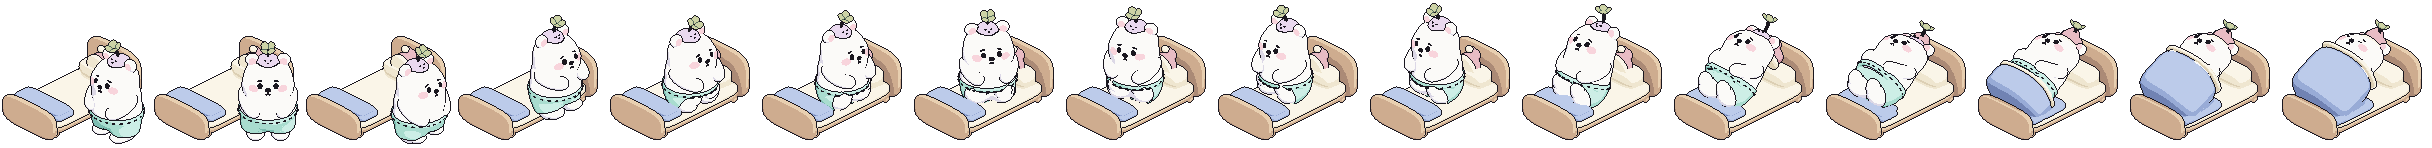
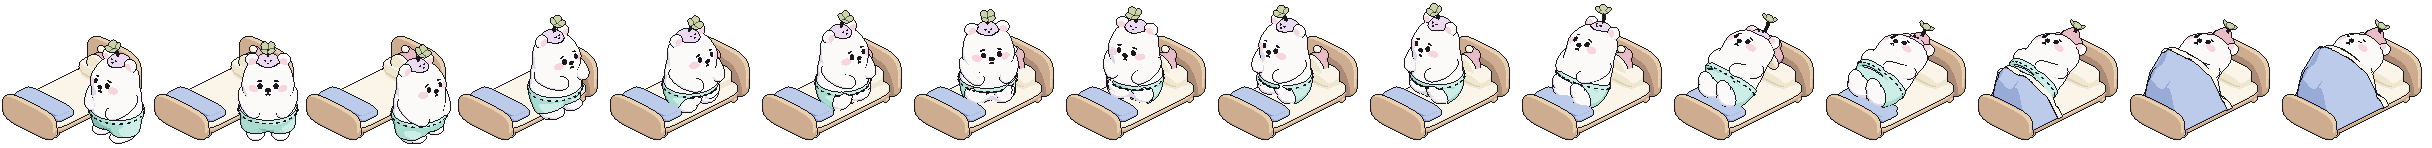
Nightcap bed: the pulled-up quilt drapes over the lying bear, with a turned-down hem
The quilt is rebuilt every frame from the posed bear: it rests on the tummy, arms and feet,
tents between them and hangs over the mattress sides. verify_out.py passes.

Changed region(s): [[0.8125, 0.2973, 1.0, 0.8649], [0.9375, 0.8108, 0.9688, 0.8649], [0.875, 0.8108, 0.9062, 0.8649]]

diff --git a/experiments/mascot/bear3d/set_out.py b/experiments/mascot/bear3d/set_out.py
@@ -25,9 +25,13 @@ key hashed from the placed matrices, so the kit's render cache keys on what is d
   ['head', t, rx, ry, rz]           the same on the head bone (the nightcap)
   ['at', x, y, z, rx, ry, rz, s]    a set-frame placement, uniform scale s (0 = hidden: scale 1e-6)
   ['box', x, y, z, sx, sy, sz]      a set-frame placement with a per-axis scale (the quilt halves)
-  ['mound', h]                      the pulled-up quilt over the lying bear: a soft mound in the posed body bone's
-                                    frame (bear rest axes) from below the seat up to height h (the chest), with a
-                                    cream hem along its top edge; h = 0 hides it
+  ['hide']                          not drawn (the folded quilt halves while the quilt is pulled up)
+  ['drape', h, out]                 the pulled-up quilt laid over the lying bear: a cloth surface rebuilt every
+                                    frame from the POSED bear (_drape: it rests on the tummy, arms and feet, tents
+                                    between them and hangs over the mattress sides), covering the bear up to height
+                                    h along the posed body bone (0 = the seat, 1.2 = the chest), with a cream
+                                    turned-down hem along that edge; h = 0 hides it; out = 1: the arms are out,
+                                    over the quilt
 Derived rigids (drops, dust, the fishing line) are placed from their host's matrix (spout tip, broom head, rod tip).
 Out of Blender the key is a hash of st. verify_out.py proves the reliance: the kit's hand-off check (props + idle#0),
 exact joins and seams, and a self-test mutation that moves a prop on a hand-off frame.
@@ -97,7 +101,9 @@ for _i, (_n, _r, _x, _mg, _th, _extra) in enumerate([
         ('mattress', 'fabric_cream', (2, 3, 4), 'cream', (0.46, 0.70), {}),
         ('quilt', 'fabric_quilt', (1, 2, 3), 'quilt', (0.46, 0.70), {}),
         ('cap', 'fabric_rose', (1, 2, 3), 'rose', (0.44, 0.70), {}),
-        ('cap_trim', 'fabric_cream', (2, 3, 4), 'cream', (0.46, 0.70), {})]):
+        ('cap_trim', 'fabric_cream', (2, 3, 4), 'cream', (0.46, 0.70), {}),
+        ('quilt_hem', 'fabric_cream', (2, 3, 4), 'cream', (0.46, 0.70), {}),
+        ('quilt_lip', 'fabric_cream', (2, 3, 4), 'sheet', (0.46, 0.70), dict(thin=0.30, prio=5))]):
     PARTS[_n] = dict(pid=50 + _i, ramp=_r, idx=_x, mg=_mg, thresh=_th, **_extra)
 
 # layers (= props) per set; the static ones (pot, ice, bed frame) never move (verify_out.py checks it)
@@ -385,35 +391,45 @@ LEG_LIE = 26.0                      # lying: the legs (swung 26 deg against the 
 ARM_LIE, SP_LIE = -6.0, 0.0         # lying: the arms
 Q_HOME = {'quilt_a': ['box', 1.02, 0.0, Z_M + 0.16, 0.28, BW - 0.02, 0.05],
           'quilt_b': ['box', 1.02, 0.0, Z_M + 0.07, 0.33, BW + 0.04, 0.08]}
-Q_UP = {'quilt_a': ['box', 0.66, 0.0, Z_M - 0.02, 0.72, BW + 0.04, 0.08],      # spread flat over the bed, sides draped
-        'quilt_b': ['box', 1.18, 0.0, Z_M + 0.02, 0.20, BW + 0.05, 0.11]}      # a thicker roll at the foot end
-# the mound (body-bone frame, bear rest axes: up +Z from the seat, forward -Y): it encloses everything of the lying
-# bear below h - 0.10 (legs, pants, tummy, arms), so the depth composite hides the covered part; the hem covers the rest
-QMOUND = dict(z0=-0.20, yc=0.0, rx=0.84, ry=0.72, e1=0.4, e2=0.8)
-MOUND_H = (0.30, 1.20)               # the top edge travels from the seat up to across the chest
-HEM = dict(dr=-0.03, dz=0.06)                    # a rolled edge, just inside the mound's rim
+Q_UP = {'quilt_a': ['box', 0.66, 0.0, Z_M - 0.02, 0.72, BW + 0.04, 0.08],      # where the folded halves head as the
+        'quilt_b': ['box', 1.18, 0.0, Z_M + 0.02, 0.20, BW + 0.05, 0.11]}      # bear takes hold (they loosen a little)
+Q_PULL = 0.2                         # from here on the folded halves are gone and the quilt is the drape
+DRAPE_H = (0.30, 1.20)               # its turned-down edge travels from the seat up to across the chest
+# the drape (bed frame, see _drape): a height field over the foot part of the bed. cell = grid step; gap = how far
+# it lies off the bear, all round (>= the bear's 1 px outline; gap_min: never less); thick = its thickness on the bare
+# mattress; soft = the radius of the ball that cannot get under it (it tents between the bumps and meets the mattress
+# in a fillet of that radius; a plain slope limit instead makes it a pitched tent); puff = blur passes that take the
+# creases out of it; over / skirt = it hangs `over` past the mattress side, down to z = skirt; round = the radius of
+# that edge; voxel / relax = the even remesh of the cloth (face size, smoothing passes); hem = the width of the cream
+# turned-down band, lift = how far it lies above the quilt, lip = the sheet edge showing beyond it where it lies on
+# the bear (within lip_r of the bear; the pixel step inks the lip along the band: the line between the hem and the
+# bear)
+DRAPE = dict(x0=-0.62, cell=0.0125, gap=0.06, gap_min=0.04, thick=0.05, soft=0.26, over=0.06, skirt=0.30,
+             puff=50, round=0.05, voxel=0.02, relax=3, hem=0.13, lift=0.02, lip=0.04, lip_r=0.10)
 CAP_HOME = (-(BL - 0.36), 0.0, Z_M + 0.52)   # the nightcap lying on the pillow (bed frame: head end at -X)
 
 
-def _quilt(t, br=0.0):
-    """t: 0 = folded at the foot (home), 1 = pulled up to the chest. The mound only shows from t 0.2 (only on
-    frames where the bear lies flat with its legs at LEG_LIE), rising from the seat to the chest."""
-    out = {}
+def _quilt(t, br=0.0, out=0):
+    """t: 0 = folded at the foot (home), 1 = pulled up to the chest. Below Q_PULL the folded halves only loosen;
+    from Q_PULL on (only on frames where the bear lies flat) they are hidden and the quilt is the drape laid over
+    the bear, its edge rising from the seat to the chest (out = 1: the arms come out over it)."""
+    res = {}
     for k in ('quilt_a', 'quilt_b'):
+        if t >= Q_PULL: res[k] = ['hide']; continue
         a, b = Q_HOME[k], Q_UP[k]; e = _ease(min(1.0, t / 0.6))
         v = [round(a[i] + (b[i] - a[i]) * e, 4) for i in range(1, 7)]
         v[5] = round(v[5] * (1 + br), 4)
-        out[k] = ['box'] + v
-    h = 0.0 if t < 0.2 else MOUND_H[0] + (MOUND_H[1] - MOUND_H[0]) * _ease((t - 0.2) / 0.8)
-    out['quilt_m'] = ['mound', round(h, 4)]
-    return out
+        res[k] = ['box'] + v
+    h = 0.0 if t < Q_PULL else DRAPE_H[0] + (DRAPE_H[1] - DRAPE_H[0]) * _ease((t - Q_PULL) / (1 - Q_PULL))
+    res['quilt_m'] = ['drape', round(h, 4), int(out)]
+    return res
 
 
 def _b_bed_cap(g):
     PXZ = g['PXZ']; hx, hy = g['hand']
     edgeY = -BW + 0.30
-    def S(cap=HOME, quilt=0.0, br=0.0, nod=0.0):
-        st = dict(_quilt(quilt, br)); st['nightcap'] = cap if cap is HOME else ['head', cap, 0.0, round(nod, 3), 0.0]
+    def S(cap=HOME, quilt=0.0, br=0.0, nod=0.0, out=0):
+        st = dict(_quilt(quilt, br, out)); st['nightcap'] = cap if cap is HOME else ['head', cap, 0.0, round(nod, 3), 0.0]
         if cap is not HOME and cap < 1.0: st['nightcap'] = ['head', cap, 0.0, 0.0, 0.0]
         return st
     lerp = lambda a, b, t: a + (b - a) * t
@@ -462,7 +478,7 @@ def _b_bed_cap(g):
     wake = [
         L0,
         _F(g, S(1.0, 1.0), LY, blink=1.0, earL=2, earR=2),                                       # eyes open
-        _F(g, S(1.0, 1.0), LY, blink=1.0, armL=30.0, armR=30.0, spL=0.0, spR=0.0, sz=1.03, mouth='wide', earL=4,
+        _F(g, S(1.0, 1.0, out=1), LY, blink=1.0, armL=30.0, armR=30.0, spL=0.0, spR=0.0, sz=1.03, mouth='wide', earL=4,
            earR=4),                                                                              # stretch, yawn
         _F(g, S(1.0, 0.5), LY, blink=1.0, clX=4, earL=2, earR=2),                                 # push the quilt down
         _F(g, S(0.6, 0.1), tl(0.55, armL=18.0, armR=18.0, clX=6)),                                # sit up, the cap hops off
@@ -576,10 +592,15 @@ def build_props(s, kit, g):
         for k in ('quilt_a', 'quilt_b'):
             e = E(k, 'bed', None, 'box_bed')
             _part(kit, k, e, 'bed', 'quilt', [((0, 0, 0), (1.0, 1.0, 1.0), 0.45, 0.30)])
-        e = E('quilt_m', 'bed', None, 'mound')                    # unit shapes, scaled per frame by _apply
-        _part(kit, 'quilt_m', e, 'bed', 'quilt', [((0, 0, 0), (1.0, 1.0, 1.0), QMOUND['e1'], QMOUND['e2'])])
-        hm = kit.empty('P_quilt_hem', (0, 0, 0), W0); rig['quilt_m']['hem'] = hm
-        _part(kit, 'quilt_hem', hm, 'bed', 'mattress', [((0, 0, 0), (1.0, 1.0, 1.0), 0.5, 0.7)])
+        e = E('quilt_m', 'bed', None, 'drape')                    # empty meshes, rebuilt per frame by _drape
+        for k, part in (('mesh', 'quilt'), ('hem', 'quilt_hem'), ('lip', 'quilt_lip')):
+            ob = _part(kit, 'quilt_' + k, e, 'bed', part, [((0, 0, 0), (1.0, 1.0, 1.0), 1.0, 1.0, dict(segs=4, rings=3))])
+            ob.data.clear_geometry(); rig['quilt_m'][k] = ob
+        import bpy
+        src = bpy.data.objects.new('quilt_src', bpy.data.meshes.new('quilt_src'))    # the cloth before remeshing:
+        bpy.context.scene.collection.objects.link(src); src.hide_render = True       # never rendered, no layer
+        md = src.modifiers.new('even', 'REMESH'); md.mode = 'VOXEL'; md.voxel_size = DRAPE['voxel']; md.adaptivity = 0.0
+        rig['quilt_m'].update(src=src, sig=[0.0])
         cap = E('nightcap', 'cap', None, 'head')
         hz = 1.4
         _part(kit, 'cap', cap, 'cap', 'cap', [((0, 0.12, 2.15 - hz), (0.31, 0.30, 0.19), 0.8, 1.0),
@@ -665,24 +686,19 @@ def _apply(st):
                 m = Matrix.Translation(a) @ q.to_matrix().to_4x4() @ Matrix.Diagonal((1, 1, max(d.length, 1e-3), 1))
             else: m = _mat_at(0, 0, -1, s=0.0)
         elif r['kind'] == 'box_bed':                               # a quilt half: set-frame box
-            _, x, y, z, sx, sy, sz = sp
-            m = Matrix.Translation((x, y, z)) @ Matrix.Diagonal((sx, sy, sz, 1.0))
-            m = _bed() @ m
-        elif r['kind'] == 'mound':                                 # the pulled-up quilt over the lying bear
-            h = sp[1] if sp[0] == 'mound' else 0.0
-            if h <= 0:
-                m = _mat_at(0, 0, -1, s=0.0); r['hem'].matrix_basis = m.copy()
+            if sp[0] == 'hide': m = _mat_at(0, 0, -1, s=0.0)
             else:
-                Q = QMOUND; F = _follow('body', 'body', (0.0, 0.0, 0.0))
-                m = F @ Matrix.Translation((0, Q['yc'], (Q['z0'] + h) / 2)) @ Matrix.Diagonal(
-                    (Q['rx'], Q['ry'], (h - Q['z0']) / 2, 1.0))
-                r['hem'].matrix_basis = F @ Matrix.Translation((0, Q['yc'], h)) @ Matrix.Diagonal(
-                    (Q['rx'] + HEM['dr'], Q['ry'] + HEM['dr'], HEM['dz'], 1.0))
+                _, x, y, z, sx, sy, sz = sp
+                m = _bed() @ Matrix.Translation((x, y, z)) @ Matrix.Diagonal((sx, sy, sz, 1.0))
+        elif r['kind'] == 'drape':                                 # the pulled-up quilt laid over the lying bear
+            m = Matrix.Identity(4)
+            r['sig'] = _drape(r, sp[1], bool(sp[2])) if sp[0] == 'drape' else _drape(r, 0.0)
         elif r['kind'] == 'head':                                  # the nightcap: pillow -> head
             home = _bed() @ _mat_at(*CAP_HOME, 0.0, -80.0, 0.0) @ Matrix.Translation((-0.10, -0.14, -0.78))
             if sp[0] == 'home': m = home
             else:
                 m = _blend(home, _follow('head', 'head', sp[2:5]), sp[1])
+        elif sp[0] == 'hide': m = _mat_at(0, 0, -1, s=0.0)
         elif sp[0] == 'home': m = _home(r)
         elif sp[0] == 'paw': m = _blend(_home(r), _follow('paw_L', 'paw_R', sp[2:5]) @ _grip(n), sp[1])
         elif sp[0] == 'at':
@@ -697,9 +713,120 @@ def _apply(st):
     for l in LAYERS[_R['set']]:
         sig = [round(x, 5) for n in sorted(rig) if rig[n]['layer'] == l for row in M[n] for x in row]
         if 'shead' in rig and l == 'snow': sig += [round(x, 5) for row in rig['shead']['nose'].matrix_basis for x in row]
-        if 'quilt_m' in rig and l == 'bed': sig += [round(x, 5) for row in rig['quilt_m']['hem'].matrix_basis for x in row]
+        if 'quilt_m' in rig and l == 'bed': sig += rig['quilt_m']['sig']
         keys[l] = f'{l}_' + hashlib.md5(json.dumps(sig).encode()).hexdigest()[:10]
     return keys
+
+
+def _drape(r, h, arms_out=False):
+    """rebuild the pulled-up quilt for this frame (the rig is already posed) and return its render signature.
+    The cloth is a height field z(x, y) in the set frame over the foot part of the bed: it lies `gap` off
+    everything of the bear below the edge plane (the plane across the posed body bone at height h), falls from
+    there like cloth (a ball of radius `soft` cannot get under it), lies `thick` on the bare mattress and hangs over
+    the mattress sides and foot.
+    arms_out: the arms are not covered (they come out over the quilt: the stretch). Cut by the edge plane it gives
+    three meshes: the quilt, the cream hem band along the cut (lifted off the quilt)
+    and the sheet lip just beyond it. Because the cloth covers the bear from above with room to spare, the depth
+    composite hides every covered bear pixel, in any pose."""
+    import bpy, bmesh
+    import numpy as np
+    from mathutils import Vector
+    from mathutils.bvhtree import BVHTree
+    obs = [r['mesh'], r['hem'], r['lip']]
+    for ob in obs: ob.data.clear_geometry()
+    if h <= 0: return [0.0]
+    D = DRAPE; cs = D['cell']
+    F = _follow('body', 'body', (0.0, 0.0, 0.0))
+    n = Vector(F.col[2][:3]).normalized(); c = F @ Vector((0.0, 0.0, h))
+    Wi = np.array(_R['W0'].matrix_world.inverted()); dg = bpy.context.evaluated_depsgraph_get()
+    vs, ts, nv = [], [], 0
+    for o in bpy.data.collections['Bear'].all_objects:                 # the posed bear, in the set frame
+        if o.type != 'MESH' or (arms_out and o.name.startswith('arm_')): continue
+        oe = o.evaluated_get(dg); me = oe.to_mesh(); me.calc_loop_triangles()
+        co = np.empty(len(me.vertices) * 3, np.float32); me.vertices.foreach_get('co', co)
+        tr = np.empty(len(me.loop_triangles) * 3, np.int32); me.loop_triangles.foreach_get('vertices', tr)
+        oe.to_mesh_clear()
+        M = Wi @ np.array(o.matrix_world)
+        vs.append(co.reshape(-1, 3).astype(np.float64) @ M[:3, :3].T + M[:3, 3]); ts.append(tr.reshape(-1, 3) + nv)
+        nv += len(vs[-1])
+    tree = BVHTree.FromPolygons(np.concatenate(vs).tolist(), np.concatenate(ts).tolist(), all_triangles=True)
+    yw = BW + D['over']; x0 = D['x0']; x1 = BL
+    nx = int(round((x1 - x0) / cs)); ny = int(round(2 * yw / cs))
+    gx = x0 + cs * np.arange(nx + 1); gy = -yw + cs * np.arange(ny + 1)
+    # T: per grid point the top of what the quilt covers there = the bear's column below the edge plane
+    T = np.full((nx + 1, ny + 1), -1e9); under = np.zeros(T.shape, bool); up, dn = Vector((0.0, 0.0, 1.0)), Vector((0.0, 0.0, -1.0))
+    for i in range(nx + 1):
+        zp = c.z - (gx[i] - c.x) * n.x / n.z                         # the edge plane's height over this row
+        for j in range(ny + 1):
+            top = tree.ray_cast(Vector((gx[i], gy[j], 9.0)), dn)[0]
+            if top is None: continue
+            under[i, j] = True
+            bot = tree.ray_cast(Vector((gx[i], gy[j], -9.0)), up)[0]
+            if bot.z <= zp: T[i, j] = min(top.z, zp)
+
+    def ball(rad):                                                   # grid offsets within rad + the ball's height there
+        m = int(rad / cs)
+        return [(u, v, math.sqrt(max(rad * rad - (u * u + v * v) * cs * cs, 0.0)))
+                for u in range(-m, m + 1) for v in range(-m, m + 1) if (u * u + v * v) * cs * cs <= rad * rad]
+    def roll_on(a, rad, sg):                                         # sg +1: a ball rolled over a (grow), -1: under it
+        p = np.pad(a, int(rad / cs), constant_values=-sg * 1e9); m = int(rad / cs)
+        st = [p[m + u:m + u + a.shape[0], m + v:m + v + a.shape[1]] + sg * hgt for u, v, hgt in ball(rad)]
+        return np.maximum.reduce(st) if sg > 0 else np.minimum.reduce(st)
+    floor = Z_M + D['thick']
+    low = np.maximum(roll_on(T, D['gap_min'], 1), floor)             # never below this: the bear + gap_min all round
+    Z = np.maximum(roll_on(T, D['gap'], 1), floor)                   # the bear + gap all round, on the mattress
+    Z = roll_on(roll_on(Z, D['soft'], 1), D['soft'], -1)             # cloth: a ball of radius soft cannot get under it
+    for k in range(D['puff']):                                       # padded cloth: no sharp creases between the bumps
+        p = np.pad(Z, 1, mode='edge')                                # (each pass is a 3x3 binomial blur)
+        Z = (4 * Z + 2 * (p[2:, 1:-1] + p[:-2, 1:-1] + p[1:-1, 2:] + p[1:-1, :-2]) +
+             p[2:, 2:] + p[2:, :-2] + p[:-2, 2:] + p[:-2, :-2]) / 16.0
+    Z = np.maximum(Z, low)
+    rc = D['round']                                                  # round the edges it hangs from
+    def roll(d): t = np.clip(rc - d, 0.0, rc); return rc - np.sqrt(rc * rc - t * t)
+    Z = np.maximum(Z - roll(yw - np.abs(gy))[None, :] - roll(x1 - gx)[:, None], np.where(T > -1e8, low, Z_M))
+
+    # the cloth as a closed solid: the height field, walls straight down to z = skirt all round, a flat bottom.
+    # A height field cannot hold its steep sides evenly (they would shade in streaks), so the solid is remeshed
+    # into even voxel-size faces and relaxed; the cuts below open it again.
+    eps = 0.004; I = np.arange(-1, nx + 2); J = np.arange(-1, ny + 2)
+    X = gx[np.clip(I, 0, nx)] + eps * ((I > nx) * 1.0 - (I < 0) * 1.0)
+    Y = gy[np.clip(J, 0, ny)] + eps * ((J > ny) * 1.0 - (J < 0) * 1.0)
+    ZZ = np.full((nx + 3, ny + 3), D['skirt']); ZZ[1:nx + 2, 1:ny + 2] = Z
+    V = np.stack([np.repeat(X[:, None], ny + 3, 1), np.repeat(Y[None, :], nx + 3, 0), ZZ], -1).reshape(-1, 3)
+    vid = np.arange((nx + 3) * (ny + 3)).reshape(nx + 3, ny + 3)
+    Fq = np.stack([vid[:-1, :-1], vid[1:, :-1], vid[1:, 1:], vid[:-1, 1:]], -1).reshape(-1, 4)
+    src = r['src']; me = src.data; me.clear_geometry(); me.from_pydata(V.tolist(), [], Fq.tolist())
+    bm = bmesh.new(); bm.from_mesh(me)
+    bmesh.ops.holes_fill(bm, edges=[e for e in bm.edges if e.is_boundary], sides=0)
+    bm.to_mesh(me); bm.free(); me.update(); src.update_tag()
+    bpy.context.view_layer.update()
+    ev = bpy.data.meshes.new_from_object(src.evaluated_get(bpy.context.evaluated_depsgraph_get()))
+    bm = bmesh.new(); bm.from_mesh(ev); bpy.data.meshes.remove(ev); me.clear_geometry()
+    for k in range(D['relax']):
+        bmesh.ops.smooth_vert(bm, verts=bm.verts[:], factor=0.5, use_axis_x=True, use_axis_y=True, use_axis_z=True)
+    bm.normal_update()
+    sig = [hashlib.md5(np.round(Z, 4).tobytes()).hexdigest()[:12], round(h, 4)] + [round(v, 5) for v in (*c, *n)]
+
+    near = roll_on(np.where(under, 0.0, -1e9), D['lip_r'], 1) > -1e8  # the bear is under here, or close by
+    def cut(lift, lo, hi, on_bear=False):                            # the cloth with lo <= s <= hi (s: past the edge plane)
+        b = bm.copy()
+        if on_bear:                                                  # the lip: only where the hem lies on the bear
+            def off(f):
+                m = f.calc_center_median()
+                return not near[min(max(int(round((m.x - x0) / cs)), 0), nx), min(max(int(round((m.y + yw) / cs)), 0), ny)]
+            bmesh.ops.delete(b, geom=[f for f in b.faces if off(f)], context='FACES')
+        if lift:
+            for v in b.verts: v.co += v.normal * lift
+        for s0, sg in ((hi, 1.0), (lo, -1.0)):
+            if s0 is None: continue
+            bmesh.ops.bisect_plane(b, geom=b.verts[:] + b.edges[:] + b.faces[:], dist=1e-7, plane_co=c + n * s0,
+                                   plane_no=n * sg, clear_outer=True)
+        return b
+    for ob, b in zip(obs, (cut(0.0, None, 0.0), cut(D['lift'], -D['hem'], 0.0), cut(0.0, 0.0, D['lip'], True))):
+        me = ob.data; me.clear_geometry(); b.to_mesh(me); b.free(); me.update()
+        for p in me.polygons: p.use_smooth = True
+    bm.free()
+    return sig
 
 
 def _bed():
